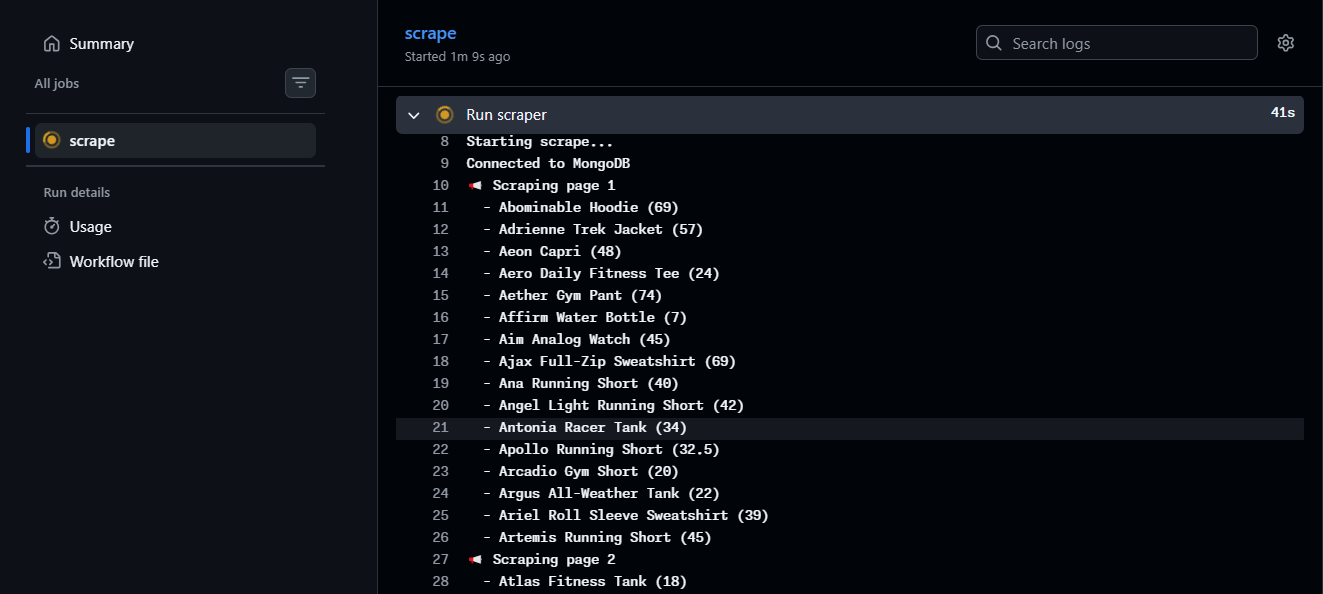
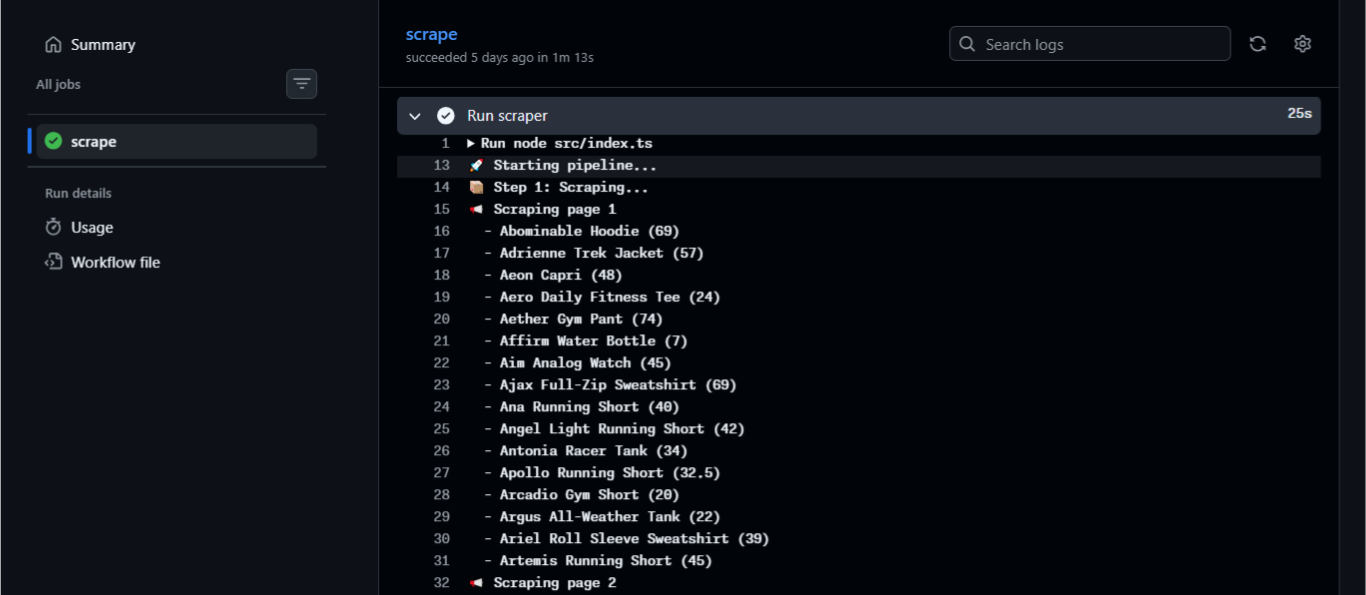
docs: improve project README

diff --git a/README.md b/README.md
@@ -7,12 +7,12 @@ E-commerce price tracker that monitors product prices and sends Telegram alerts 
 ```mermaid
 flowchart TD
     A["⏰ GitHub Actions <br> (every 6 hour)"] 
-    A --> B["🌐 Step 1: Playwright Scraper 188 product, 12 pages"] 
-    B --> C["🔁 Step 2: Sync to MongoDB Atlas (time series collection)"]
+    A --> B["🌐 Playwright Scraper<br>188 product across 12 pages"] 
+    B --> C["🔁 Sync to MongoDB Atlas<br>(time series collection)"]
     C --> D{Price dropped?}
     D --> |Yes| E["📬 Telegram Alert"]
-    C --> F["💾 Step 3: Export CSV"]
-    F --> G["☁ Step 4: Upload to BackBlaze B2 <br> (S3-compatible)"]
+    B --> F["💾 Export CSV"]
+    F --> G["☁ Upload to Backblaze B2<br>(S3-compatible object storage)"]
 ```
 
 ## Demo
@@ -75,11 +75,11 @@ flowchart TD
    - `B2_BUCKET_NAME`
    - `B2_REGION`
    - `B2_ENDPOINT`
-   > **Note:** B2_* keys are used to upload csv file to BackBlaze B2 Cloud storage (here you can use any S3-compatible cloud storage)
+   > **Note:** B2_* keys are used to upload csv file to Backblaze B2 Cloud storage. (here you can use any S3-compatible cloud storage)
    - `ATLAS_PUBLIC_KEY`
    - `ATLAS_PRIVATE_KEY`
-   > **Note:** `ATLAS_PUBLIC_KEY` and `ATLAS_PRIVATE_KEY` are MongoDB Atlas Organization API key.\
-   > Go to **Project → Project Identity & Access → Applications -> API Keys → Create API Key** with **Project Network Access Manager** role.
+   > **Note:** `ATLAS_PUBLIC_KEY` and `ATLAS_PRIVATE_KEY` are MongoDB Atlas API key credentials used by the workflow to temporarily allow the GitHub Actions runner to access MongoDB Atlas.\
+   Create an API key with the **Project Network Access Manager** role under **Project → Project Identity & Access → Applications → API Keys**.
 4. Add the following repository variable:
    - `ATLAS_GROUP_ID`
    > **Note:** `ATLAS_GROUP_ID` is your Project ID, found under MongoDB Atlas **Project Settings**.
